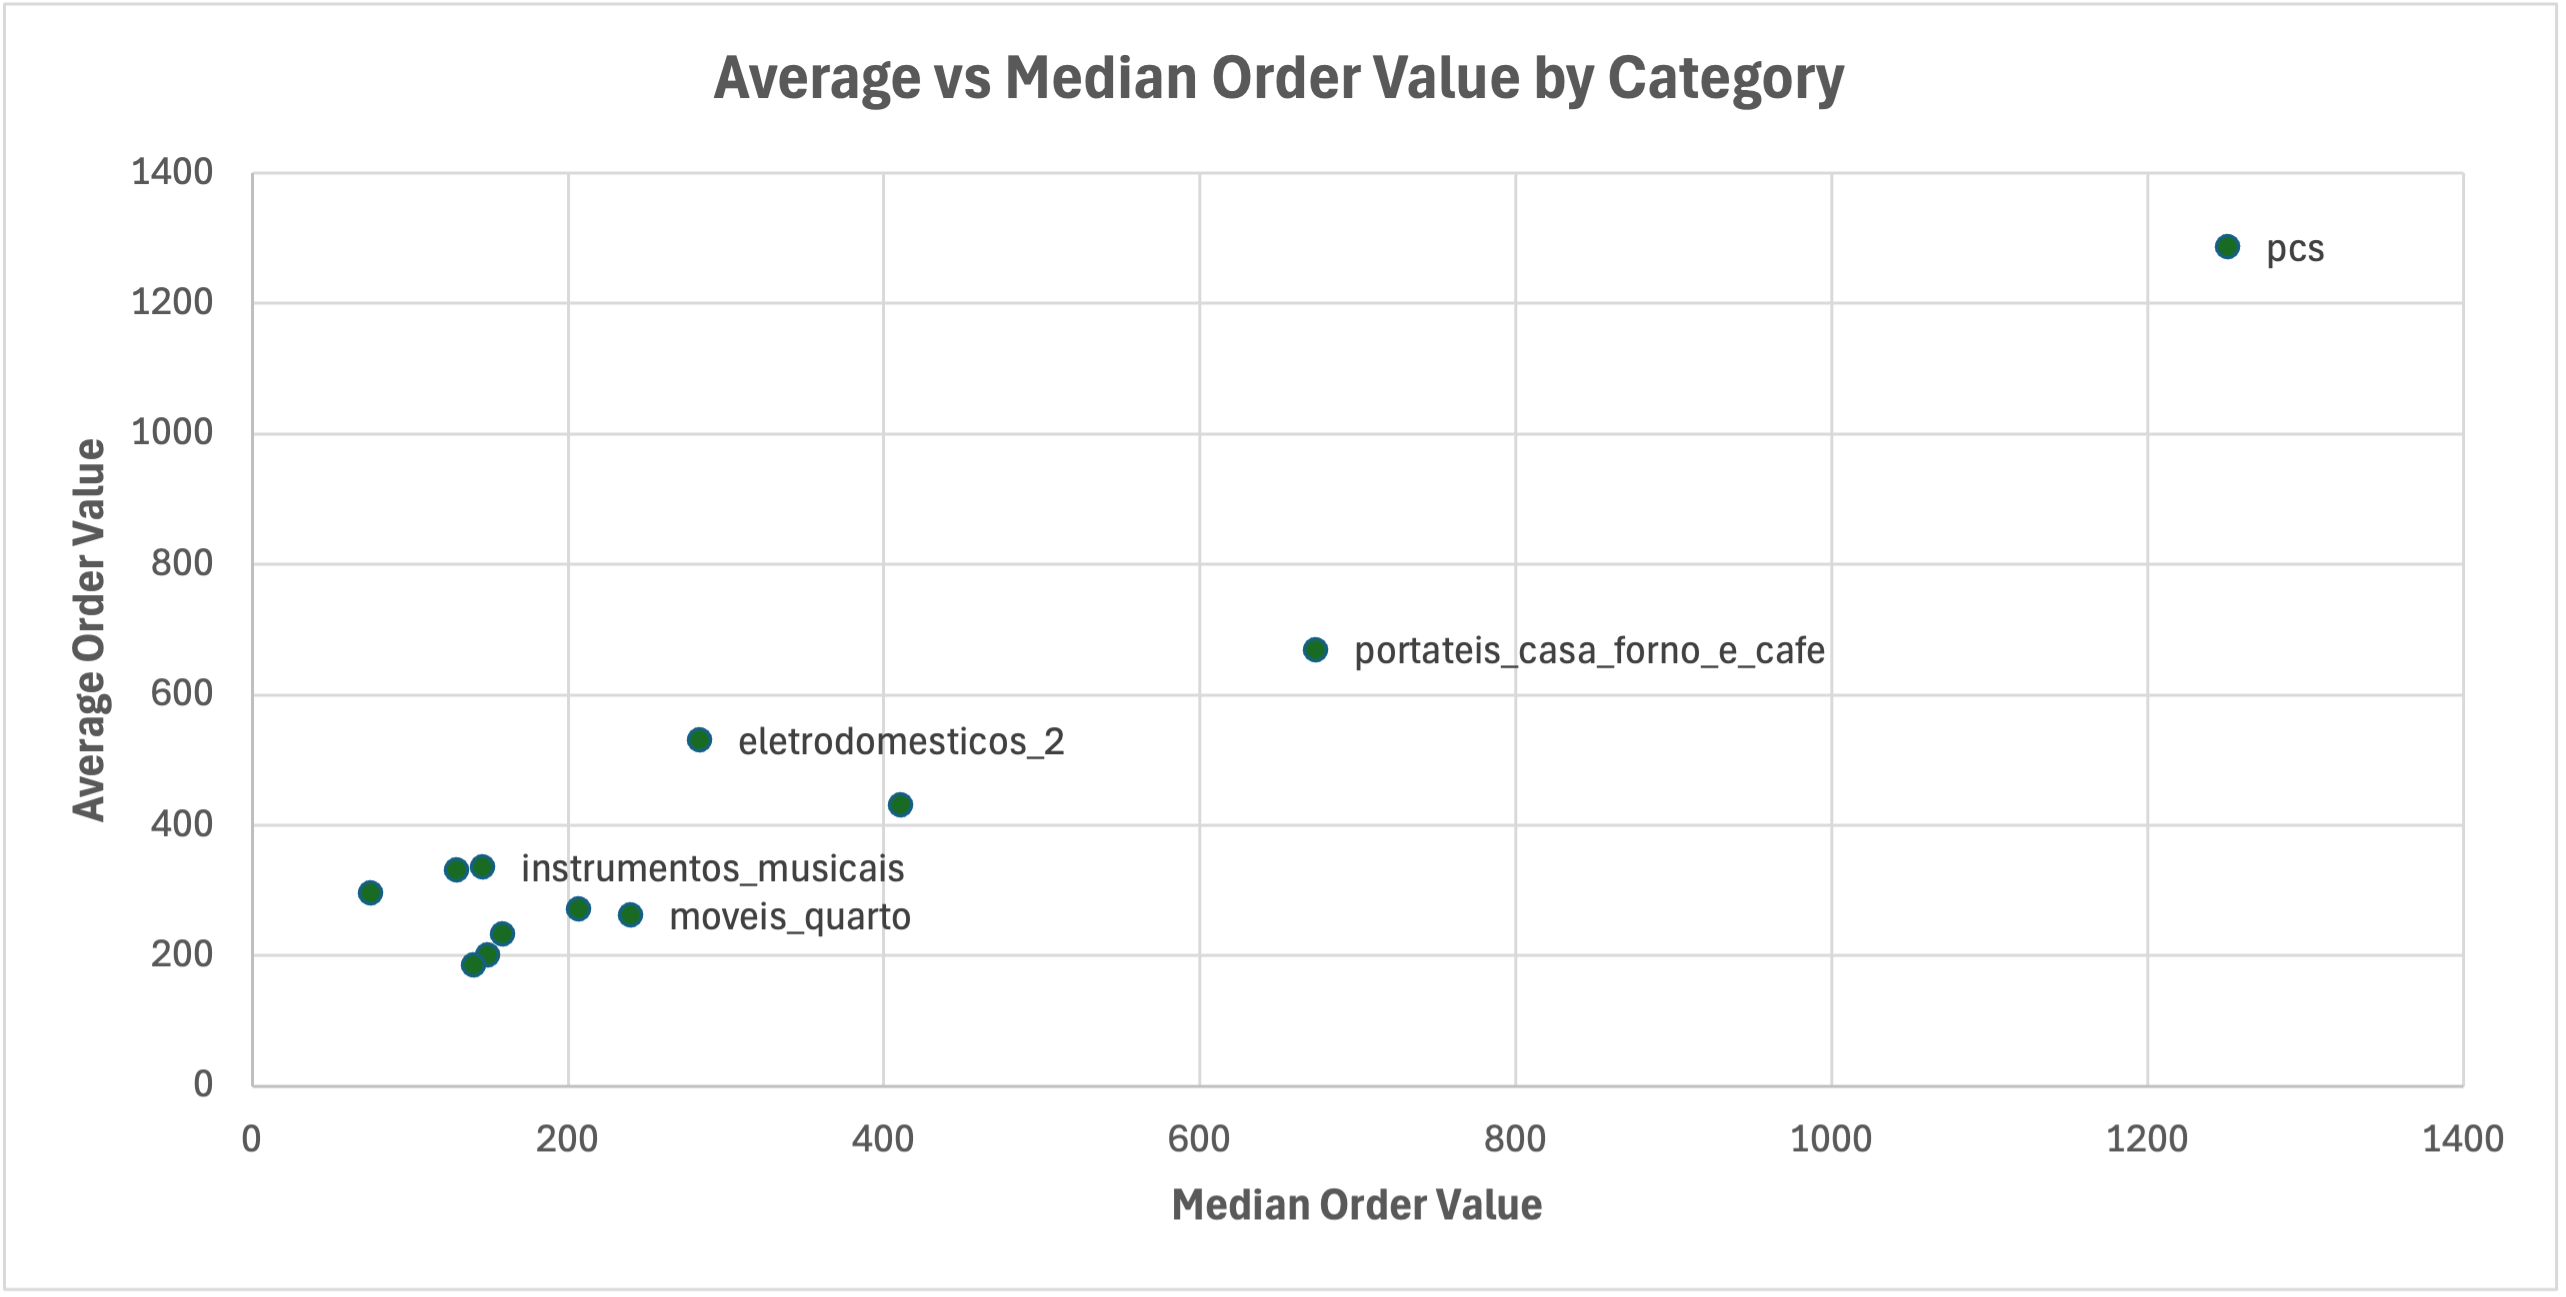
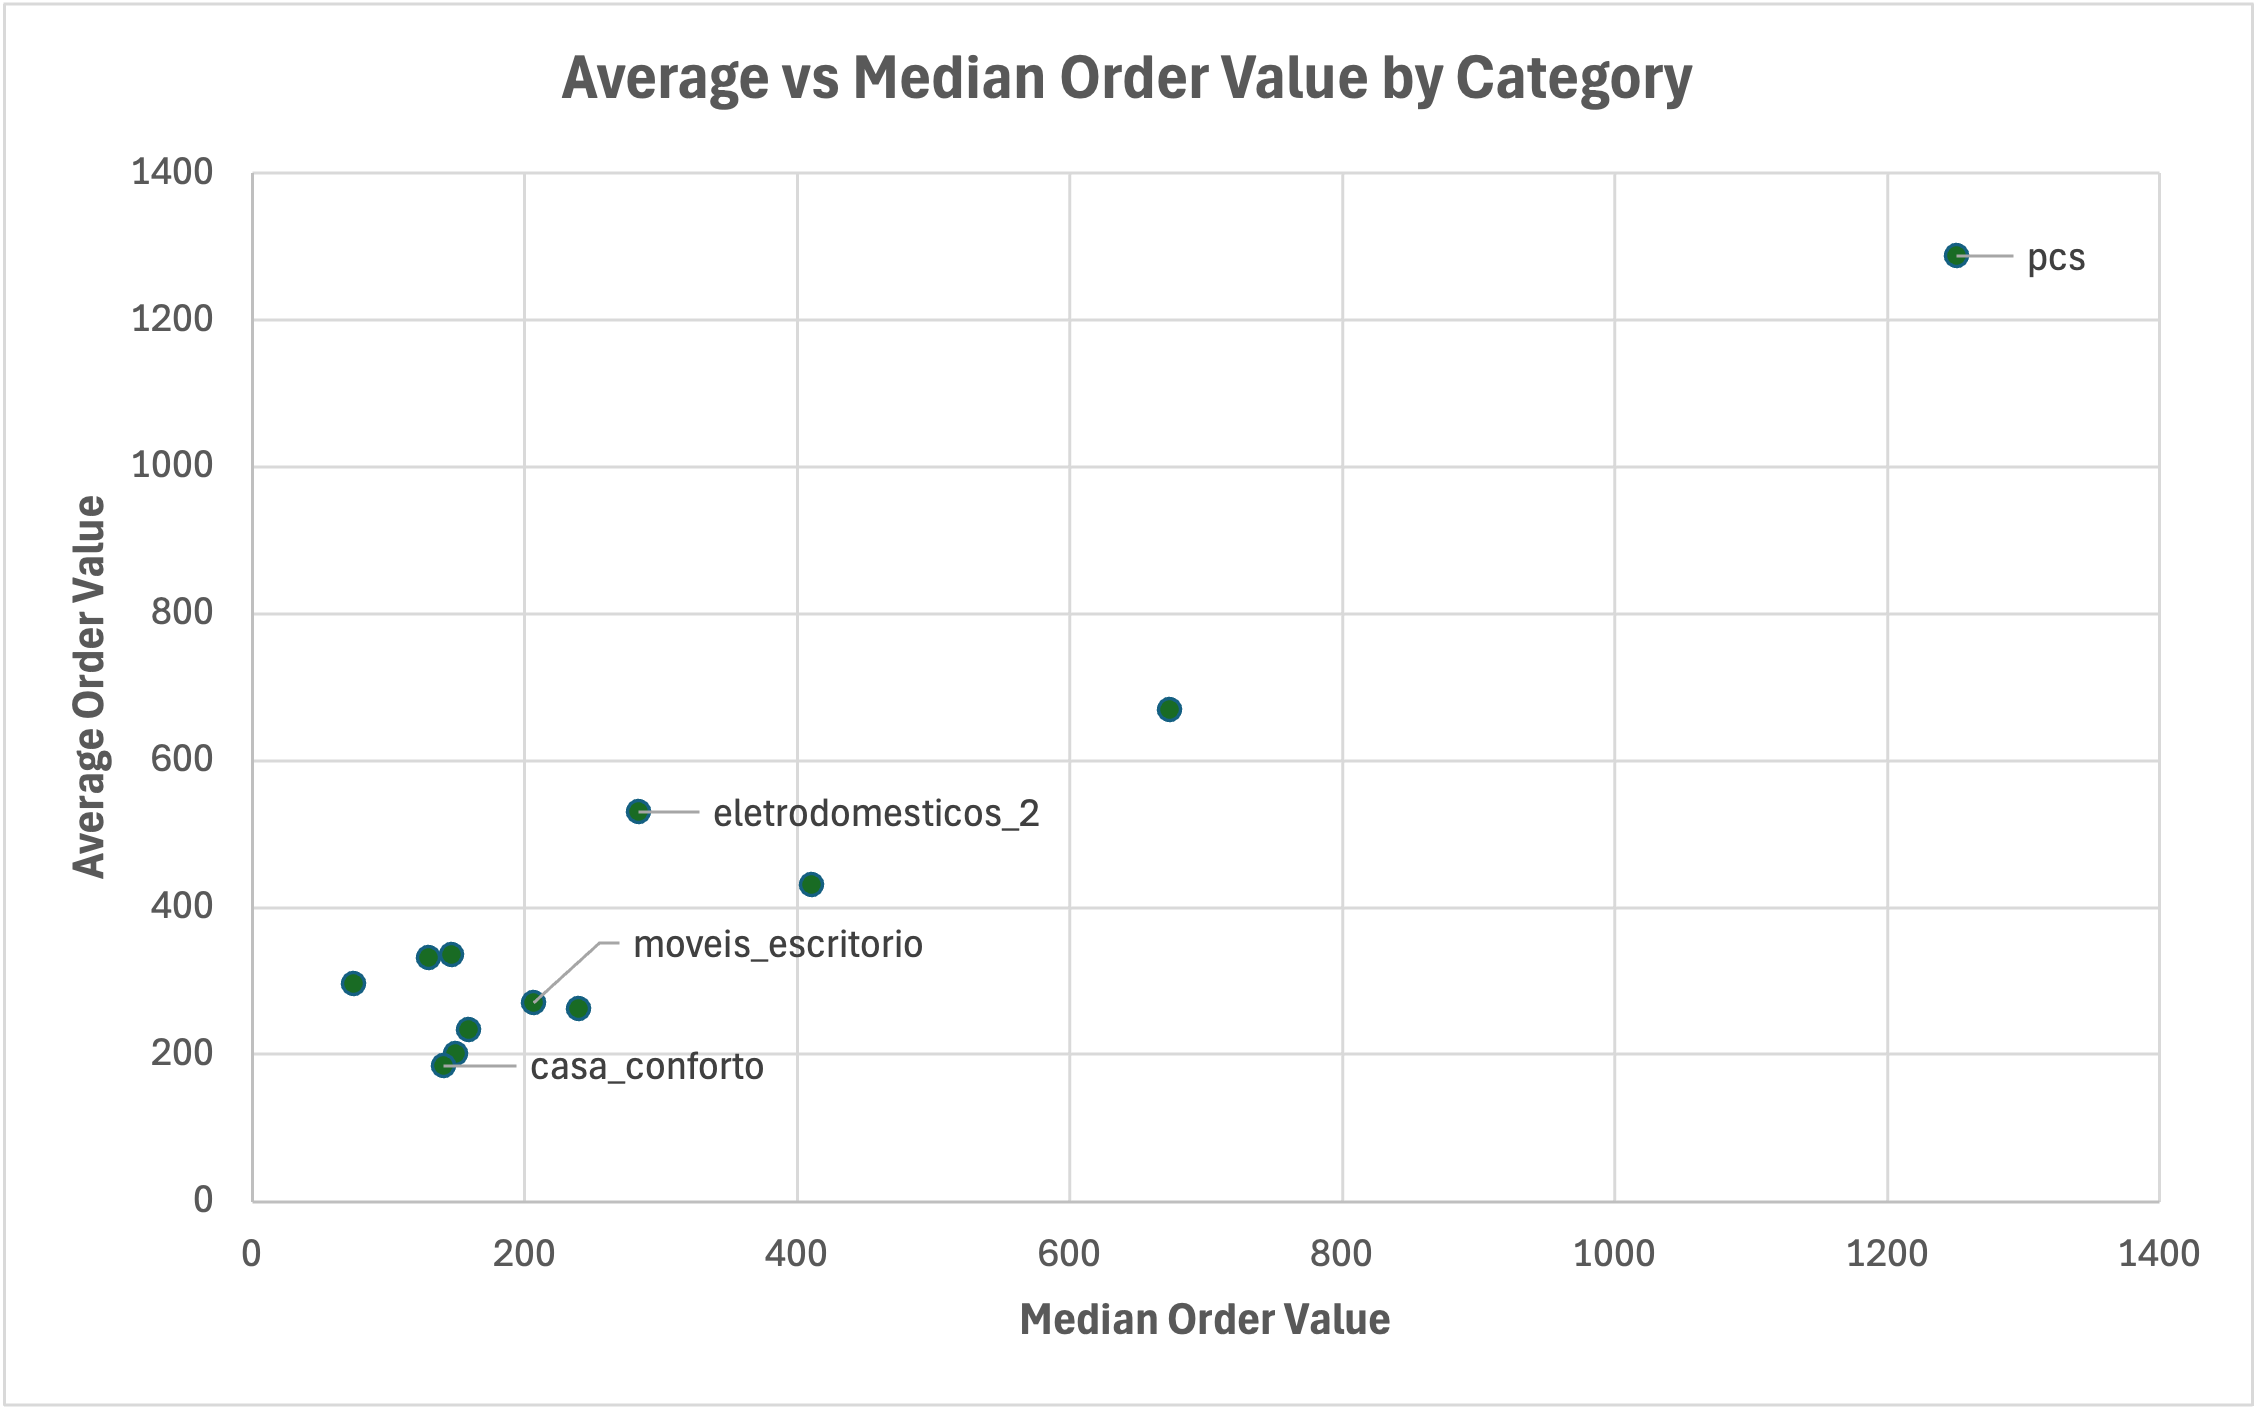
refactor: align category examples across documentation, visualization, and excel analysis
- use one representative category per segment (high-value, skewed, basket, mid-range)
- update README and data notes for consistent examples
- adjust scatter plot labels for clarity
- update excel workbook to reflect selected categories

diff --git a/README.md b/README.md
@@ -121,12 +121,12 @@ This allows distinguishing between:
 
 ## Example: Category Comparison
 
-| Category                    | Avg Order Value |  Median |   High-Value Ratio |
-|:----------------------------|----------------:|--------:|-------------------:|
-| pcs                         |         1286.95 | 1250.81 |               0.99 |
-| portateis_casa_forno_e_cafe |          669.25 |  673.47 |               0.67 |
-| moveis_escritorio           |          270.90 |  206.84 |               0.63 |
-| casa_conforto               |          185.13 |  140.06 |               0.45 |
+| Category            | Avg Order Value |  Median | High-Value Ratio |
+|:--------------------|----------------:|--------:|-----------------:|
+| pcs                 |         1286.95 | 1250.81 |             0.99 |
+| eletrodomesticos_2  |          529.75 |  283.27 |             0.79 |
+| moveis_escritorio   |          270.90 |  206.84 |             0.63 |
+| casa_conforto       |          185.13 |  140.06 |             0.45 |
 
 ---
 

diff --git a/docs/data_notes.md b/docs/data_notes.md
@@ -327,6 +327,8 @@ Merkmale:
 Interpretation:
 
 Diese Kategorien sind häufig Teil großer Bestellungen, aber nicht deren Haupttreiber.
+ 
+Beispiel: `moveis_escritorio`
 
 ---
 
@@ -341,6 +343,8 @@ Merkmale:
 Interpretation:
 
 Diese Kategorien zeigen ein konsistentes, aber nicht extremes Verhalten.
+
+Beispiel: `casa_conforto`
 
 ---
 
